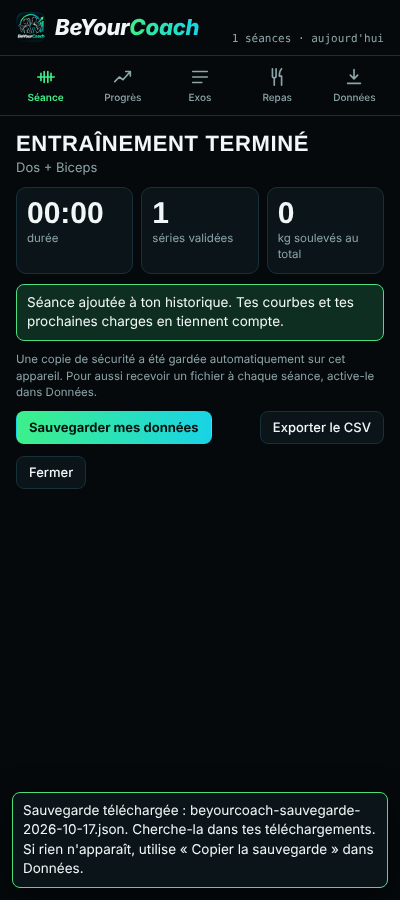
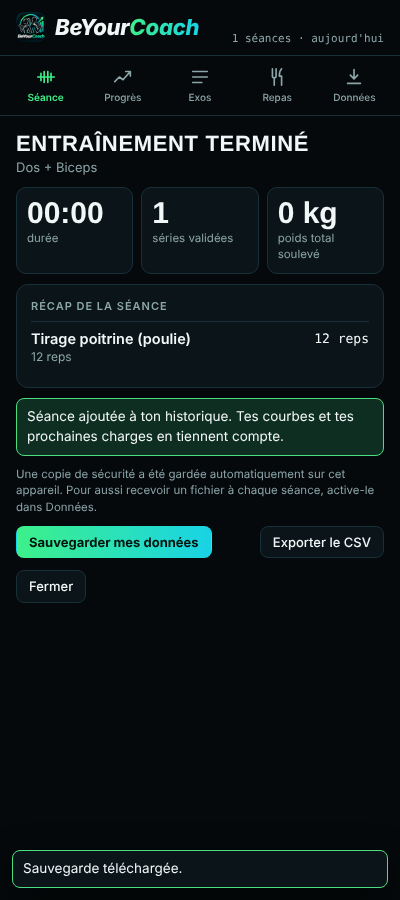
Simplification : sections repliables, séance plus courte, progrès par onglets, bouton démarrer fixe (v54)
Claude-Session: https://claude.ai/code/session_01Vtc5ZNMvDPgSTxc2AS4PEB

Changed region(s): [[0.03, 0.2178, 0.96, 0.6844], [0.03, 0.8711, 0.93, 0.9956], [0.66, 0.5911, 0.93, 0.6222]]

diff --git a/index.html b/index.html
@@ -2460,7 +2460,7 @@ function ropts() {
 function deloadCard() {
   if (deloadOn()) return '<div class="msg tip"><div class="lab">Semaine allégée en cours</div><p class="why">Moins de séries, charges −10 %, rien de difficile. Tu reviens à ton rythme normal ensuite.</p><button class="btn" data-act="deload" data-v="0">Revenir au programme normal</button></div>';
   var d = C.needsDeload(model, now()); if (!d.suggest || !hasData()) return '';
-  return '<div class="banner"><span><b>Semaine allégée conseillée.</b> ' + esc(d.why) + ' Elle réduit les séries et les charges pendant 7 jours pour mieux récupérer, puis tu progresses plus vite.</span><span class="chips"><button class="chip go" data-act="deload" data-v="1">Lancer une semaine allégée</button></span></div>';
+  return '<div class="banner"><span><b>Semaine allégée conseillée.</b> ' + esc(d.why) + '</span><span class="chips"><button class="chip go" data-act="deload" data-v="1">Lancer une semaine allégée</button></span></div>';
 }
 function methLine(it) {
   return '<div class="meth"><span>Repos <b>' + esc(it.restTxt) + '</b></span><span>Reps en réserve <b>' + esc(it.rir) + '</b></span></div>' +
@@ -2468,11 +2468,16 @@ function methLine(it) {
 }
 function focusCard() {
   if (!S.sel.length) return '';
-  var sel = SEL(), q = sel.length, auto = q > S.sel.length, mx = ropts().maxEx;
-  var txt = q === 1 ? 'Toute la séance travaille <b>' + esc(sel[0]) + '</b>.' : '<b>' + esc(sel[0]) + '</b> est le muscle principal (' + C.quota(q, 0, mx) + ' exercices, les plus lourds en premier). ' + sel.slice(1).map(function (m, i) { return '<b>' + esc(m) + '</b> (' + C.quota(q, i + 1, mx) + ')'; }).join(' et ') + (auto ? ', un muscle adjacent, ajouté automatiquement,' : '') + ' complète' + (q > 2 ? 'nt' : '') + ' la fin de séance.';
-  return '<div class="msg tip"><div class="lab">Muscle à travailler en priorité</div><p class="why">' + txt + '</p>' +
-    (q > 1 ? '<div class="chips">' + sel.map(function (m, i) { return '<button class="chip' + (i === 0 ? ' go' : '') + '" data-act="focus" data-m="' + esc(m) + '" aria-pressed="' + (i === 0) + '">' + (i === 0 ? '★ ' : '') + esc(m) + '</button>'; }).join('') + '</div><p class="legend">Touche un muscle pour en faire le principal. Choisis-en un autre dans la liste pour changer le complément.</p>' : '') +
-    (auto ? '<div><button class="btn" data-act="solo">Que du ' + esc(S.sel[0]) + ', sans complément</button></div>' : (S.solo ? '<div><button class="btn" data-act="solo">Ajouter un muscle adjacent</button></div>' : '')) + '</div>';
+  var sel = SEL(), q = sel.length, auto = q > S.sel.length;
+  if (q === 1 && !S.solo) return '';
+  return '<div class="msg tip"><p class="why" style="margin:0">Muscle principal : <b>' + esc(sel[0]) + '</b>' + (q > 1 ? ', complété par ' + sel.slice(1).map(function (m) { return '<b>' + esc(m) + '</b>'; }).join(' et ') : '') + '.</p>' +
+    (q > 1 ? '<div class="chips">' + sel.map(function (m, i) { return '<button class="chip' + (i === 0 ? ' go' : '') + '" data-act="focus" data-m="' + esc(m) + '" aria-pressed="' + (i === 0) + '">' + (i === 0 ? '★ ' : '') + esc(m) + '</button>'; }).join('') + '</div>' : '') +
+    (auto ? '<div><button class="btn" data-act="solo">Que du ' + esc(S.sel[0]) + '</button></div>' : (S.solo ? '<div><button class="btn" data-act="solo">Ajouter un muscle adjacent</button></div>' : '')) + '</div>';
+}
+function fold(key, label, body) {
+  if (!body) return '';
+  var o = S.open && S.open[key];
+  return '<div style="display:flex;flex-direction:column;gap:10px;min-width:0"><button class="chip" data-act="fold" data-k="' + key + '" aria-expanded="' + !!o + '" style="align-self:flex-start">' + label + (o ? ' ▴' : ' ▾') + '</button>' + (o ? body : '') + '</div>';
 }
 function viewSeance() {
   if (S.active) return viewWorkout();
@@ -2484,13 +2489,15 @@ function viewSeance() {
   var tiles = C.GROUPS.map(function (g) {
     return '<div class="lab">' + g[0] + '</div><div class="tiles">' + g[1].map(function (m) {
       var s = byM[m], on = S.sel.indexOf(m) >= 0;
-      return '<button class="tile" data-act="pick" data-m="' + m + '" aria-pressed="' + on + '"><span class="n">' + m + '</span><span class="s"><i class="dot ' + s.state + '"></i>' + esc(s.label) + '</span><span class="k">' + (m === injured() ? 'à ménager' : s.s7 + ' séries / 7 j') + '</span></button>';
+      return '<button class="tile" data-act="pick" data-m="' + m + '" aria-pressed="' + on + '"><span class="n">' + m + '</span><span class="s"><i class="dot ' + s.state + '"></i>' + esc(s.label) + '</span>' + (m === injured() ? '<span class="k">à ménager</span>' : '') + '</button>';
     }).join('') + '</div>';
   }).join('');
-  var h = '<section class="sec"><div><h2>Quel muscle aujourd\'hui ?</h2><p class="sub">Touche jusqu\'à trois muscles : le premier est le muscle principal, les suivants le complètent. Le point indique la récupération : vert, plus de 48 h.</p></div>' +
+  var h = '<section class="sec"><div><h2>Quel muscle aujourd\'hui ?</h2><p class="sub">Touche un muscle (jusqu\'à 3). Point vert : bien récupéré.</p></div>' +
     '<div class="chips">' + C.PRESETS.map(function (p, i) { return injured() && p[1].indexOf(injured()) >= 0 ? '' : '<button class="chip go" data-act="preset" data-i="' + i + '">' + (recPreset(p[0]) ? '★ ' : '') + p[0] + '</button>'; }).join('') + '</div>' + (prof() ? '<p class="legend">★ conseillé pour ' + C.FREQS.filter(function (f) { return f[0] === PROFILE.freq; })[0][1] + '.</p>' : '') + tiles + '</section>';
-  h = '<button class="btn back" data-act="home">← Accueil</button>' + weekCard() + evCard() + planCard() + routinesCard() + h;
-  h += companionsSection(byM);
+  var evBusy = activeEvent() || pendingWeek() || S.evq || S.evwarn, mo = S.open && S.open.more;
+  var rq = ROUT.length ? '<div class="chips"><span class="legend" style="align-self:center;margin:0">Mes routines</span>' + ROUT.map(function (r) { return '<button class="chip go" data-act="rbstart" data-k="' + esc(r.id) + '">' + esc(r.name) + '</button>'; }).join('') + '</div>' : '';
+  h = '<div class="row" style="justify-content:space-between"><button class="btn back" data-act="home">← Accueil</button><button class="chip" data-act="fold" data-k="more" aria-expanded="' + !!mo + '">Plus ' + (mo ? '▴' : '▾') + '</button></div>' + (evBusy ? evCard() : '') + weekCard() + rq + (mo ? (evBusy ? '' : evCard()) + planCard() + routinesCard() : '') + h;
+  h += fold('comp', 'Muscles à associer', companionsSection(byM));
   autoXtra();
   if (!S.sel.length) return h + '<p class="empty">Choisis un muscle pour obtenir ta séance.</p>';
   h += deloadCard() + focusCard();
@@ -2500,20 +2507,19 @@ function viewSeance() {
     h += '<div class="banner' + (crit ? ' crit' : '') + '">' + rec.warnings.map(function (w) { return '<span>' + esc(w.text) + '</span>'; }).join('') +
       (rec.rested.length ? '<span class="chips">' + rec.rested.slice(0, 3).map(function (s) { return '<button class="chip go" data-act="swap" data-m="' + s.muscle + '">' + s.muscle + ' · ' + esc(s.label) + '</button>'; }).join('') + '</span>' : '') + '</div>';
   }
-  if (rec.items.length) h += '<section class="sec"><div><h2>Ta séance</h2><p class="sub">' + rec.items.length + ' exercice' + (rec.items.length > 1 ? 's' : '') + ' choisi' + (rec.items.length > 1 ? 's' : '') + ' dans ton historique (6 au maximum), les plus lourds d\'abord.</p></div>';
+  if (rec.items.length) h += '<section class="sec"><div><h2>Ta séance</h2><p class="sub">' + rec.items.length + ' exercice' + (rec.items.length > 1 ? 's' : '') + ', les plus lourds d\'abord.</p></div>';
   h += rec.items.map(function (it, i) {
     var key = it.name, dn = !!S.done[key];
     var tgt = it.bw ? '<b>' + it.sets + ' × ' + it.reps + '</b><small>reps' + (it.w > 0 ? ' · +' + kg(it.w) + ' kg' : '') + '</small>' : '<b>' + it.sets + ' × ' + it.reps + '</b><span>' + kg(it.w) + ' kg</span>';
-    return '<article class="card' + (dn ? ' done' : '') + '"><div class="row"><div><div class="ename">' + esc(it.name) + '</div><div class="emu">' + it.muscle + ' · ' + (it.kind === 'C' ? 'polyarticulaire' : 'isolation') + ' · zone ' + it.zone + ' reps</div></div>' +
+    var od = S.open && S.open['d:' + key];
+    return '<article class="card' + (dn ? ' done' : '') + '"><div class="row"><div><div class="ename">' + esc(it.name) + '</div><div class="emu">' + it.muscle + ' · zone ' + it.zone + ' reps</div></div>' +
       '<button class="btn" data-act="done" data-k="' + esc(key) + '" aria-pressed="' + dn + '">' + (dn ? 'Fait' : 'À faire') + '</button></div>' +
       '<div class="target">' + tgt + '</div><p class="why">' + esc(it.why) + '</p>' +
-      methLine(it) +
-      (it.warm ? '<div class="warm">Échauffement : <b>' + it.warm + '</b></div>' : '') +
-      '<div class="hist">' + C.fmtDate(it.lastDate) + ' : ' + esc(it.lastLine) + '</div>' +
       (it.plateau ? '<div><span class="pill flat">Stagne depuis 6 semaines</span></div>' : '') +
-       '<div><button class="btn" data-act="why" data-k="' + esc(it.name) + '" aria-expanded="' + (S.wy === it.name) + '">Pourquoi celui-là ?</button></div>' + (S.wy === it.name ? whyHTML(it.name, rec.items.map(function (x) { return x.name; }).concat(S.xtra)) : '') +
-      (LIBMAP[it.name] ? '<div><button class="btn" data-act="sfiche" data-k="' + esc(it.name) + '" aria-expanded="' + (S.sf === it.name) + '">' + (S.sf === it.name ? 'Masquer la fiche' : 'Voir la fiche') + '</button></div>' + (S.sf === it.name ? ficheHTML(it.name) : '') : '') + '</article>';
-  }).join('') + (rec.items.length ? '</section>' : '') + varietySection() + adviceCard('Après la séance') + '<button class="btn primary big" data-act="start">Démarrer l\'entraînement</button>';
+      '<div class="chips">' + (LIBMAP[it.name] ? '<button class="chip" data-act="sfiche" data-k="' + esc(it.name) + '" aria-expanded="' + (S.sf === it.name) + '">' + (S.sf === it.name ? 'Masquer la fiche' : 'Fiche') + '</button>' : '') + '<button class="chip" data-act="fold" data-k="d:' + esc(key) + '" aria-expanded="' + !!od + '">Détails ' + (od ? '▴' : '▾') + '</button></div>' +
+      (S.sf === it.name ? ficheHTML(it.name) : '') +
+      (od ? methLine(it) + (it.warm ? '<div class="warm">Échauffement : <b>' + it.warm + '</b></div>' : '') + '<div class="hist">' + C.fmtDate(it.lastDate) + ' : ' + esc(it.lastLine) + '</div>' + '<div><button class="btn" data-act="why" data-k="' + esc(it.name) + '" aria-expanded="' + (S.wy === it.name) + '">Pourquoi celui-là ?</button></div>' + (S.wy === it.name ? whyHTML(it.name, rec.items.map(function (x) { return x.name; }).concat(S.xtra)) : '') : '') + '</article>';
+  }).join('') + (rec.items.length ? '</section>' : '') + varietySection() + fold('adv', 'Conseils après la séance', adviceCard('Après la séance')) + '<div style="position:sticky;bottom:calc(10px + env(safe-area-inset-bottom,0px));z-index:5"><button class="btn primary big" style="width:100%;box-shadow:0 8px 24px rgba(0,0,0,.55)" data-act="start">Démarrer l\'entraînement</button></div>';
   return h;
 }
 
@@ -2566,12 +2572,14 @@ function viewProgres() {
   var h = '<section class="sec"><div><h2>Cette semaine</h2></div><div class="strip"><div class="stat"><b>' + cur.sessions + '</b><span>séances</span></div><div class="stat"><b>' + cur.sets + '</b><span>séries de travail</span></div><div class="stat"><b>' + (Math.round(avgS * 10) / 10).toString().replace('.', ',') + '</b><span>séances / sem. sur 4 sem.</span></div></div></section>';
   h += weekCompare(ws);
   h += '<section class="sec"><div><h2>Séries par semaine</h2><p class="sub">Le chiffre au-dessus de chaque barre est le nombre de séances. Semaine en cours en pâle.</p></div><div class="card">' + weekChart(ws) + '</div></section>';
+  var R = h; h = '';
   var mx = 24, rows = C.MUSCLES.map(function (m) { return C.muscleStatus(model, m, n); });
   rows.forEach(function (r) { mx = Math.max(mx, r.s7, r.avg4); });
   h += '<section class="sec"><div><h2>Volume par muscle</h2><p class="sub">Séries des 7 derniers jours. Le trait blanc est ta moyenne sur 4 semaines.</p></div><div class="card">' +
     rows.map(function (r) {
       return '<div class="mrow"><span>' + r.muscle + '</span><div class="mtrack"><div class="mband" style="left:' + (10 / mx * 100) + '%;width:' + (10 / mx * 100) + '%"></div><div class="mfill" style="width:' + (r.s7 / mx * 100) + '%"></div><div class="mavg" style="left:' + Math.min(99, r.avg4 / mx * 100) + '%"></div></div><span class="mono">' + r.s7 + '</span></div>';
     }).join('') + '<div class="legend">Bande claire : 10 à 20 séries par semaine, la zone courante pour progresser.</div></div></section>';
+  var V = h; h = '';
   var p = C.progress(model, n);
   var li = function (g, flat) {
     var ch = g.st.change, cls = flat ? 'flat' : 'up';
@@ -2580,7 +2588,9 @@ function viewProgres() {
   h += '<section class="sec"><div><h2>Ils progressent</h2><p class="sub">Meilleure séance des 6 dernières semaines contre les 6 précédentes.</p></div>' +
     (p.gains.length ? '<div class="list">' + p.gains.slice(0, 6).map(function (g) { return li(g, false); }).join('') + '</div>' : '<p class="empty">Pas encore assez de séances pour comparer.</p>') + '</section>';
   if (p.plateaus.length) h += '<section class="sec"><div><h2>Ils stagnent</h2><p class="sub">Au moins trois séances récentes, sans progrès sur 6 semaines. Change les répétitions, la tempo ou la variante.</p></div><div class="list">' + p.plateaus.slice(0, 5).map(function (g) { return li(g, true); }).join('') + '</div></section>';
-  return h + recordsSection() + measSection() + historySection();
+  var seg = [['r', 'Résumé'], ['e', 'Exercices'], ['c', 'Corps'], ['h', 'Historique']], pt = S.pt || 'r';
+  var bar = '<div class="chips">' + seg.map(function (x) { return '<button class="chip' + (pt === x[0] ? ' go' : '') + '" data-act="pt" data-k="' + x[0] + '" aria-pressed="' + (pt === x[0]) + '">' + x[1] + '</button>'; }).join('') + '</div>';
+  return bar + (pt === 'e' ? h + recordsSection() : pt === 'c' ? V + measSection() : pt === 'h' ? historySection() : R);
 }
 
 function historySection() {
@@ -3277,11 +3287,12 @@ function varietySection() {
   if (!firsts.length) for (i = 0; i < Math.min(2, pool.length); i++) pick.push(pool[(off + i) % pool.length]);
   if (!pick.length) return '';
   var fresh = firsts.length > 0, miss = SEL().filter(function (m) { return !hasHist(m); });
-  return '<section class="sec"><div><h2>' + (fresh ? 'Pour démarrer' : 'Pour varier') + '</h2><p class="sub">' + (fresh ? 'Tu n\'as encore rien fait pour ' + miss.map(esc).join(', ') + ' : voici une première séance, déjà ajoutée. Retire ce que tu ne veux pas.' : 'Des exercices que tu n\'as encore jamais faits dans ton historique.') + '</p></div>' + pick.map(function (e) {
+  var secv = '<section class="sec"><div><h2>' + (fresh ? 'Pour démarrer' : 'Pour varier') + '</h2><p class="sub">' + (fresh ? 'Tu n\'as encore rien fait pour ' + miss.map(esc).join(', ') + ' : voici une première séance, déjà ajoutée. Retire ce que tu ne veux pas.' : 'Des exercices que tu n\'as encore jamais faits dans ton historique.') + '</p></div>' + pick.map(function (e) {
     var on = S.xtra.indexOf(e.n) >= 0;
     return '<article class="card"><div class="row"><div><div class="ename">' + esc(e.n) + '</div><div class="emu">' + e.m + ' · ' + esc(e.eq) + '</div></div><button class="btn" data-act="addx" data-k="' + esc(e.n) + '" aria-pressed="' + on + '">' + (on ? 'Ajouté' : 'Ajouter') + '</button></div>' +
       '<p class="why">' + esc(e.why) + '</p><div class="chips"><button class="btn" data-act="goto" data-k="' + esc(e.n) + '">Voir la fiche</button><button class="btn" data-act="why" data-k="' + esc(e.n) + '" aria-expanded="' + (S.wy === e.n) + '">Pourquoi celui-là ?</button></div>' + (S.wy === e.n ? whyHTML(e.n, S.xtra) : '') + '</article>';
   }).join('') + '</section>';
+  return fresh ? secv : fold('var', 'Pour varier : exercices à essayer', secv);
 }
 function viewExos() {
   var n = now(), all = Object.keys(model.ex).map(function (k) { return model.ex[k]; });
@@ -3318,7 +3329,7 @@ function detail(X, st, n) {
     (X.bw ? '' : '<div class="legend">e1RM : estimation du maximum sur 1 répétition, charge × (1 + reps / 30), meilleure série de chaque séance.</div>') + ficheToggle(X.name) + '</div>';
 }
 
-var APP_VER = 'v0.53';
+var APP_VER = 'v0.54';
 function viewHome() {
   var d = hasData();
   return '<section class="home"><img class="hlogo" src="' + window.LOGO_URI + '" alt="Logo BeYourCoach">' +
@@ -3372,7 +3383,7 @@ function render() {
   $('meta').textContent = metaText();
   if (S.active) { $('meta').setAttribute('data-act', 'tab'); $('meta').setAttribute('data-t', 'seance'); } else { $('meta').removeAttribute('data-act'); $('meta').removeAttribute('data-t'); }
   $('tabs').innerHTML = TB.map(function (t) { return '<button data-act="tab" data-t="' + t[0] + '"' + (S.tab === t[0] ? ' aria-current="page"' : '') + '><svg viewBox="0 0 24 24" aria-hidden="true">' + t[2] + '</svg>' + t[1] + '</button>'; }).join('');
-  var v = (S.tab === 'seance' ? backupNag() : '') + (S.tab === 'seance' ? viewSeance() : S.tab === 'progres' ? viewProgres() : S.tab === 'exos' ? viewExos() : S.tab === 'repas' ? viewRepas() : S.tab === 'coach' ? viewCoach() : viewData());
+  var v = (S.tab === 'seance' ? viewSeance() : S.tab === 'progres' ? viewProgres() : S.tab === 'exos' ? viewExos() : S.tab === 'repas' ? viewRepas() : S.tab === 'coach' ? viewCoach() : viewData());
   var q = $('q'), keep = q && document.activeElement === q ? q.selectionStart : -1;
   $('view').innerHTML = v;
   Anim.mount();
@@ -3527,14 +3538,14 @@ function viewWorkout() {
     '<div class="row"><span class="sub" id="rest">' + restText() + '</span><span class="mono sub">' + okn + '/' + total + ' séries</span></div>' +
     (S.rsv ? '<div class="row"><input class="fin" id="rs-name" type="text" maxlength="40" placeholder="Nom de la routine" value="' + esc(S.rsvName == null ? a.title : S.rsvName) + '" aria-label="Nom de la routine"><button class="btn primary" data-act="rsvgo">Enregistrer</button></div>' : '') +
     (S.wmsg ? '<div class="msg err">' + esc(S.wmsg) + '</div>' : '') +
-    '<div class="chips"><button class="chip" data-act="rsv" aria-expanded="' + !!S.rsv + '">Enregistrer comme routine</button><button class="chip" data-act="snd" aria-pressed="' + (lsGet('cds.snd') === '1') + '">Son à la fin du repos</button></div><div class="row"><button class="btn primary" data-act="wfin">Terminer l\'entraînement</button><button class="btn" data-act="wabort">' + (S.confirm === 'abort' ? 'Confirmer l\'abandon' : 'Abandonner') + '</button></div></div></section>';
+    '<div class="row" style="flex-wrap:wrap"><button class="btn primary" data-act="wfin">Terminer l\'entraînement</button><button class="btn" data-act="wabort">' + (S.confirm === 'abort' ? 'Confirmer l\'abandon' : 'Abandonner') + '</button><button class="chip" style="white-space:nowrap" data-act="fold" data-k="wopt" aria-expanded="' + !!(S.open && S.open.wopt) + '">Options ' + (S.open && S.open.wopt ? '▴' : '▾') + '</button></div>' + (S.open && S.open.wopt ? '<div class="chips"><button class="chip" data-act="rsv" aria-expanded="' + !!S.rsv + '">Enregistrer comme routine</button><button class="chip" data-act="snd" aria-pressed="' + (lsGet('cds.snd') === '1') + '">Son à la fin du repos</button></div>' : '') + '</div></section>';
   a.exos.forEach(function (e, i) {
-    h += '<article class="card' + ((e.ss || (i > 0 && a.exos[i - 1].ss)) ? ' ss' : '') + '"><div class="row"><div><div class="ename">' + ((e.ss || (i > 0 && a.exos[i - 1].ss)) ? '<span class="pill up">Superset</span> ' : '') + esc(e.name) + '</div>' + (e.rest ? '<div class="emu">Repos ' + esc(e.rest) + ' · réserve ' + esc(e.rir) + '</div>' : '') + '</div><div class="chips"><button class="btn" data-act="wfiche" data-k="' + esc(e.name) + '">' + (S.wf === e.name ? 'Masquer' : 'Fiche') + '</button><button class="btn" data-act="wadd" data-i="' + i + '">+ Série</button><button class="btn" data-act="why" data-k="' + esc(e.name) + '" aria-expanded="' + (S.wy === e.name) + '">Pourquoi ?</button><button class="btn" data-act="wrep" data-i="' + i + '" aria-expanded="' + (S.rep === i) + '">Remplacer</button></div></div>' +
+    h += '<article class="card' + ((e.ss || (i > 0 && a.exos[i - 1].ss)) ? ' ss' : '') + '"><div class="row"><div><div class="ename">' + ((e.ss || (i > 0 && a.exos[i - 1].ss)) ? '<span class="pill up">Superset</span> ' : '') + esc(e.name) + '</div>' + (e.rest ? '<div class="emu">Repos ' + esc(e.rest) + '</div>' : '') + '</div><div class="chips"><button class="btn" data-act="wfiche" data-k="' + esc(e.name) + '">' + (S.wf === e.name ? 'Masquer' : 'Fiche') + '</button><button class="btn" data-act="fold" data-k="o' + i + '" aria-expanded="' + !!(S.open && S.open['o' + i]) + '" aria-label="Plus d\'actions">⋯</button></div></div>' +
       (S.wy === e.name ? whyHTML(e.name, a.exos.map(function (x) { return x.name; })) : '') +
       (S.rep === i ? '<div class="msg tip"><div class="lab">Remplacer par un exercice proche</div><div class="chips">' + altsFor(i).map(function (n) { return '<button class="chip go" data-act="wrepdo" data-i="' + i + '" data-k="' + esc(n) + '">' + esc(n) + '</button>'; }).join('') + '</div><div class="lab">Ou choisis librement</div><select class="search repsel" data-i="' + i + '" aria-label="Choisir un autre exercice"><option value="">Un exercice de la bibliothèque…</option>' + C.MUSCLES.map(function (m) { return '<optgroup label="' + m + '">' + LIB.filter(function (x) { return x.m === m; }).sort(function (x, y) { return x.n < y.n ? -1 : 1; }).map(function (x) { return '<option value="' + esc(x.n) + '">' + esc(x.n) + '</option>'; }).join('') + '</optgroup>'; }).join('') + '</select>' +
         '<div class="lab">Ou écris ton propre exercice</div><div class="fgrid"><input class="fin" id="rep-free" type="text" placeholder="Nom de l\'exercice" aria-label="Nom de ton exercice"><select class="fin" id="rep-mu" aria-label="Muscle travaillé">' + C.MUSCLES.map(function (m) { return '<option' + (m === curMuscle(e.name) ? ' selected' : '') + '>' + m + '</option>'; }).join('') + '</select></div><button class="btn" data-act="wrepfree" data-i="' + i + '">Utiliser cet exercice</button>' +
         '<div class="chips"><button class="chip" data-act="wrm" data-i="' + i + '">' + (S.confirm === 'rm' + i ? 'Confirmer le retrait' : 'Retirer de la séance') + '</button></div></div>' : '') +
-      toolsHTML(e, i) + (S.pl === i ? platesHTML(e) : '') +
+      ((S.open && S.open['o' + i]) ? '<div class="chips"><button class="chip" data-act="why" data-k="' + esc(e.name) + '" aria-expanded="' + (S.wy === e.name) + '">Pourquoi ?</button><button class="chip" data-act="wrep" data-i="' + i + '" aria-expanded="' + (S.rep === i) + '">Remplacer</button></div>' + toolsHTML(e, i) : '') + (S.pl === i ? platesHTML(e) : '') +
       (S.wf === e.name ? ficheHTML(e.name) : '') +
       (e.last ? '<div class="hist">Dernière fois : ' + esc(e.last) + '</div>' : '') + (e.hint ? '<div class="hist">' + esc(e.hint) + '</div>' : '') +
       '<div class="sg sh"><span></span><span>kg</span><span>reps</span><span></span><span></span></div>' +
@@ -3544,10 +3555,10 @@ function viewWorkout() {
           '<input class="in" id="r-' + i + '-' + j + '" inputmode="numeric" data-f="r" data-i="' + i + '" data-j="' + j + '" value="' + s.r + '" aria-label="Répétitions, série ' + (j + 1) + '">' +
           '<button class="btn ck" data-act="wset" data-i="' + i + '" data-j="' + j + '" aria-pressed="' + !!s.ok + '" aria-label="Valider la série ' + (j + 1) + '">✓</button>' +
           '<button class="btn x" data-act="wdel" data-i="' + i + '" data-j="' + j + '" aria-label="Supprimer la série ' + (j + 1) + '">×</button></div>';
-      }).join('') + '</article>';
+      }).join('') + '<button class="btn" data-act="wadd" data-i="' + i + '" style="align-self:flex-start">+ Série</button></article>';
   });
   var opts = C.MUSCLES.map(function (m) { return '<optgroup label="' + m + '">' + LIB.filter(function (e) { return e.m === m; }).sort(function (x, y) { return x.n < y.n ? -1 : 1; }).map(function (e) { return '<option value="' + esc(e.n) + '">' + esc(e.n) + (model.ex[e.n] ? '' : ' (nouveau)') + '</option>'; }).join('') + '</optgroup>'; }).join('');
-  return h + '<select id="addex" class="search" aria-label="Ajouter un exercice"><option value="">+ Ajouter un exercice</option>' + opts + '</select>' + adviceCard('Après ta séance');
+  return h + '<select id="addex" class="search" aria-label="Ajouter un exercice"><option value="">+ Ajouter un exercice</option>' + opts + '</select>';
 }
 function finishWorkout() {
   var a = S.active, exos = [];
@@ -3782,6 +3793,8 @@ document.addEventListener('click', function (e) {
   else if (a === 'bk') { backupFile(); return; }
   else if (a === 'bkcopy') { copyBackup(); return; }
   else if (a === 'bkgo') { applyRestore(); }
+  else if (a === 'fold') { S.open = S.open || {}; S.open[k] = !S.open[k]; }
+  else if (a === 'pt') { S.pt = k; }
   else if (a === 'autobk') { lsSet('cds.autobk', lsGet('cds.autobk') === '1' ? '0' : '1'); }
   else if (a === 'snaprest') { var sn = SNAPS[wi]; if (sn) { var n2 = sn.n; S.bk = sn.obj; S.bkInfo = { date: sn.obj.date, n: n2 }; S.msg = null; } }
   else if (a === 'bkno') { S.bk = null; }

diff --git a/sw.js b/sw.js
@@ -1,5 +1,5 @@
 /* BeYourCoach : service worker, fonctionne hors ligne. */
-var CACHE = 'beyourcoach-v53';
+var CACHE = 'beyourcoach-v54';
 var FILES = ['./', 'index.html', 'manifest.webmanifest', 'icon-192.png', 'icon-512.png', 'apple-touch-icon.png'];
 self.addEventListener('install', function (e) {
   e.waitUntil(caches.open(CACHE).then(function (c) { return c.addAll(FILES); }).then(function () { return self.skipWaiting(); }));
